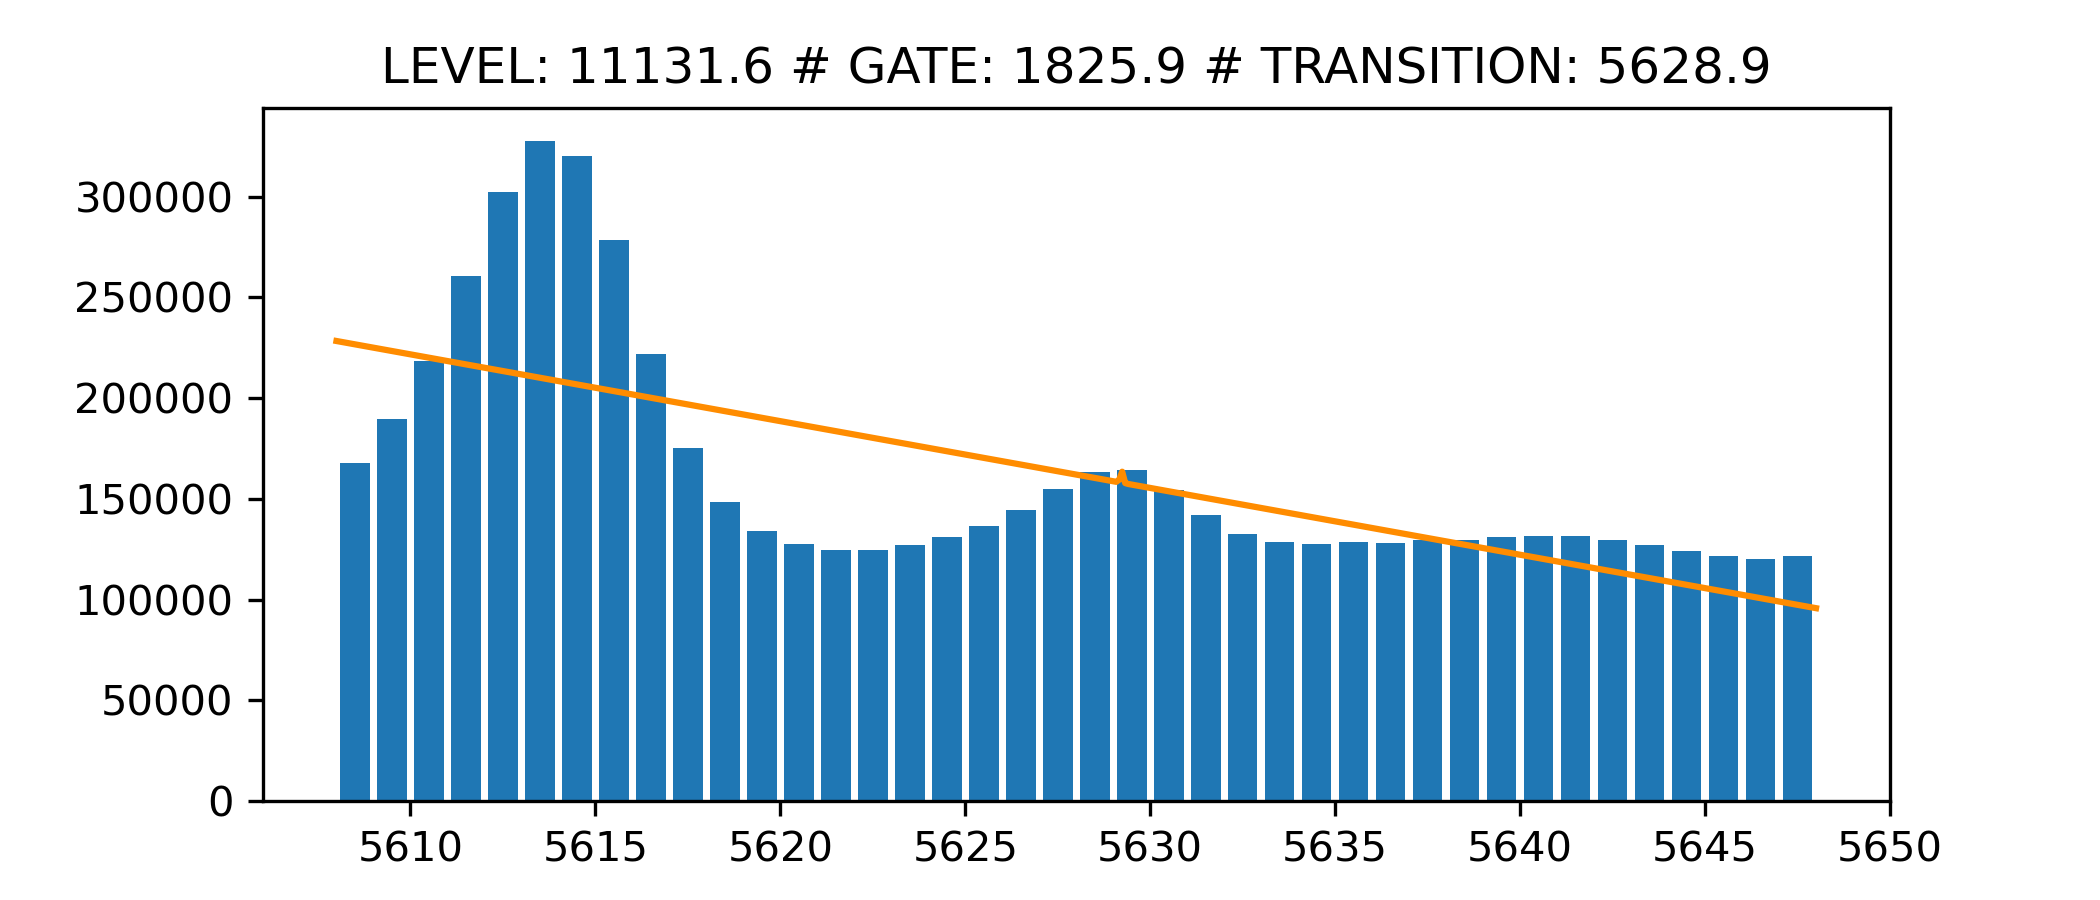
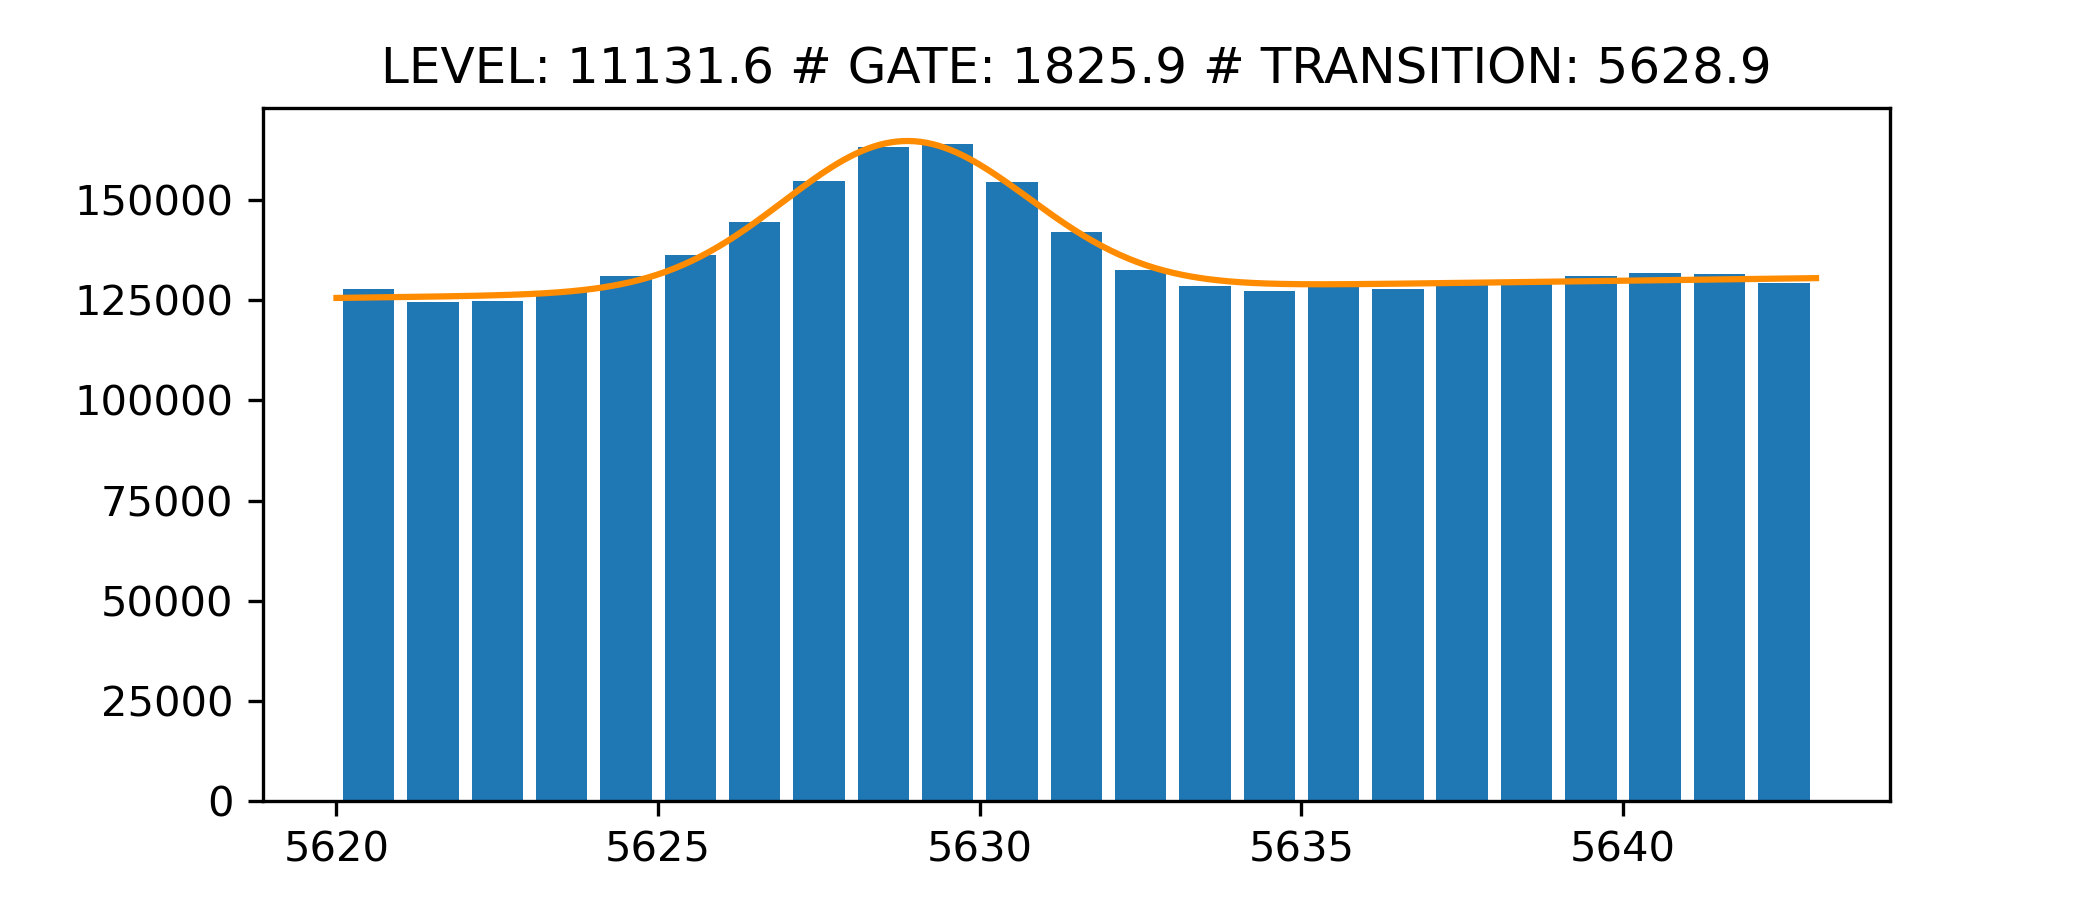
FitSinglePrimaryGammaray() now works! user can perform 1 single fit of a primary ray directly from commandline using --primary and -gd option (-gd is needed to tell the program where to look for the gated spectra to be used. Tomorrow I will need to put propper comments everywhere to make the code re

diff --git a/sauron.py b/sauron.py
@@ -338,6 +338,13 @@ parser.add_argument('--primary',
                     nargs='*',
                     action='store',
                     help='Use this argument if the gammaray you want to fit is a primary')
+parser.add_argument('-gd',
+                    '--gatedir',
+                    default=None,
+                    type=str,
+                    help='If the single peak to fit is a primary, us --gatedir '
+                        +'to specify in which directory is the gated '
+                        +'spectra to use.')
 parser.add_argument('-d',
                     '--level-directory', 
                     type=str, 
@@ -608,7 +615,7 @@ def FitSinglePeak(_level_scheme,_level_directory,_gate_energy,_peak,_param=None,
 
     return _results
 
-def FitSinglePrimaryPeak(_level_scheme,_gammaray_energy,_secondary_gammaray_energy,_param=None,_limit=None,_called_directly=0):
+def FitSinglePrimaryPeak(_level_scheme,_level_directory,_gammaray_energy,_secondary_gammaray_energy,_gate_directory,_param=None,_limit=None,_called_directly=0):
     '''
 
     FitSinglePeak(): wrap FitGauss() and runs it for the one selected peak.
@@ -632,15 +639,12 @@ def FitSinglePrimaryPeak(_level_scheme,_gammaray_energy,_secondary_gammaray_ener
 
     '''
     _primary_level_scheme=_level_scheme[_level_scheme[grec_name]==_gammaray_energy].reset_index(drop=True)
-    _secondary_level_scheme=
-    # Here cycling over all the primary gammarays
-    os.chdir(os.path.join(spectra_directory,str(_secondary_gammaray_energy)))
+    os.chdir(os.path.join(spectra_directory,str(_gate_directory)))
     _hist=np.genfromtxt(str(_secondary_gammaray_energy)+'.dat')
-    _peak=_primary_gammaray[grec_name]
-    _level_directory=str(_primary_gammaray[stalc_name])
+    _peak=_gammaray_energy
     _gate_energy=_secondary_gammaray_energy
-    _param=[_peak,2,_hist[int(_peak),1],-0.1,10]
-    _limit=[_peak-20,_peak+20]
+    if _param==None: _param=[_peak,2,_hist[int(_peak),1],-0.1,10]
+    if _limit==None: _limit=[_peak-20,_peak+20]
     _results=FitGauss(_hist,_param,_limit)
 
     _fig,_ax=DrawFitResults(_hist,_level_directory,_gate_energy,_peak,_limit,_results,_show_flag=_called_directly)
@@ -671,7 +675,14 @@ def FitBindingLevel(_level_scheme):
     for _index,_primary_gammaray in _primary_level_scheme.iterrows():
         _ending_level=_primary_gammaray[stplc_name]
         for _secondary_index,_secondary_gammaray in _level_scheme[_level_scheme[stalc_name]==_ending_level].iterrows():
-            FitSinglePrimaryPeak(_level_scheme,_primary_gammaray[grec_name],_secondary_gammaray[grec_name],_param=None,_limit=None,_called_directly=0)
+            FitSinglePrimaryPeak(_level_scheme,
+                                 str(_primary_gammaray[stalc_name]),
+                                 _primary_gammaray[grec_name],
+                                 _secondary_gammaray[grec_name],
+                                 str(_secondary_gammaray[stplc_name]),
+                                 _param=None,
+                                 _limit=None,
+                                 _called_directly=0)
 
 
 def FitSingleLevel(_level_scheme,_level_directory):
@@ -749,8 +760,10 @@ if __name__ == '__main__':
     elif parser_arguments.primary is not None:
         start_calc_time=time.time()
         FitSinglePrimaryPeak(level_scheme,
+                             parser_arguments.level_directory,
                              parser_arguments.peak,
                              parser_arguments.gate,
+                             parser_arguments.gatedir,
                              parser_arguments.param,
                              parser_arguments.limit,
                              1)
